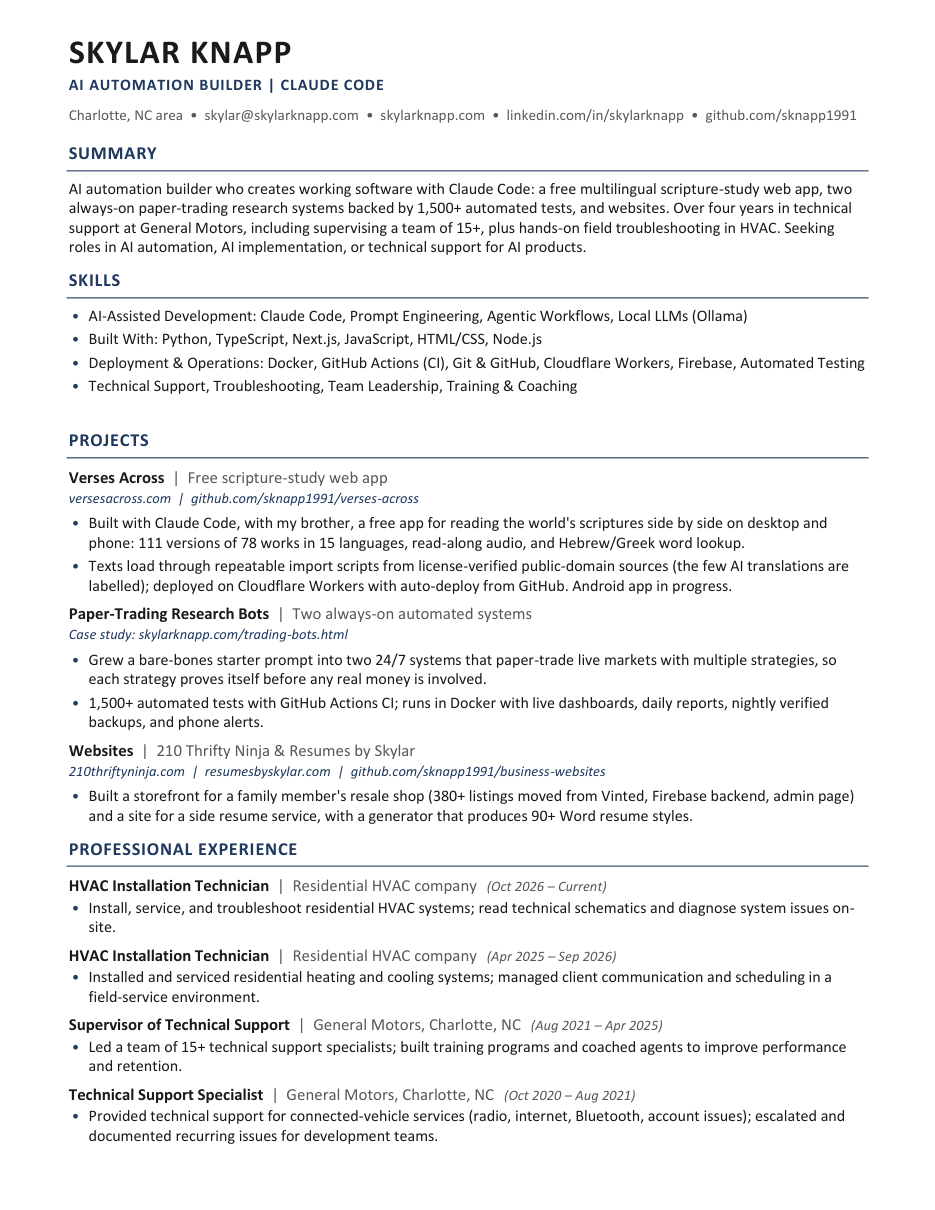
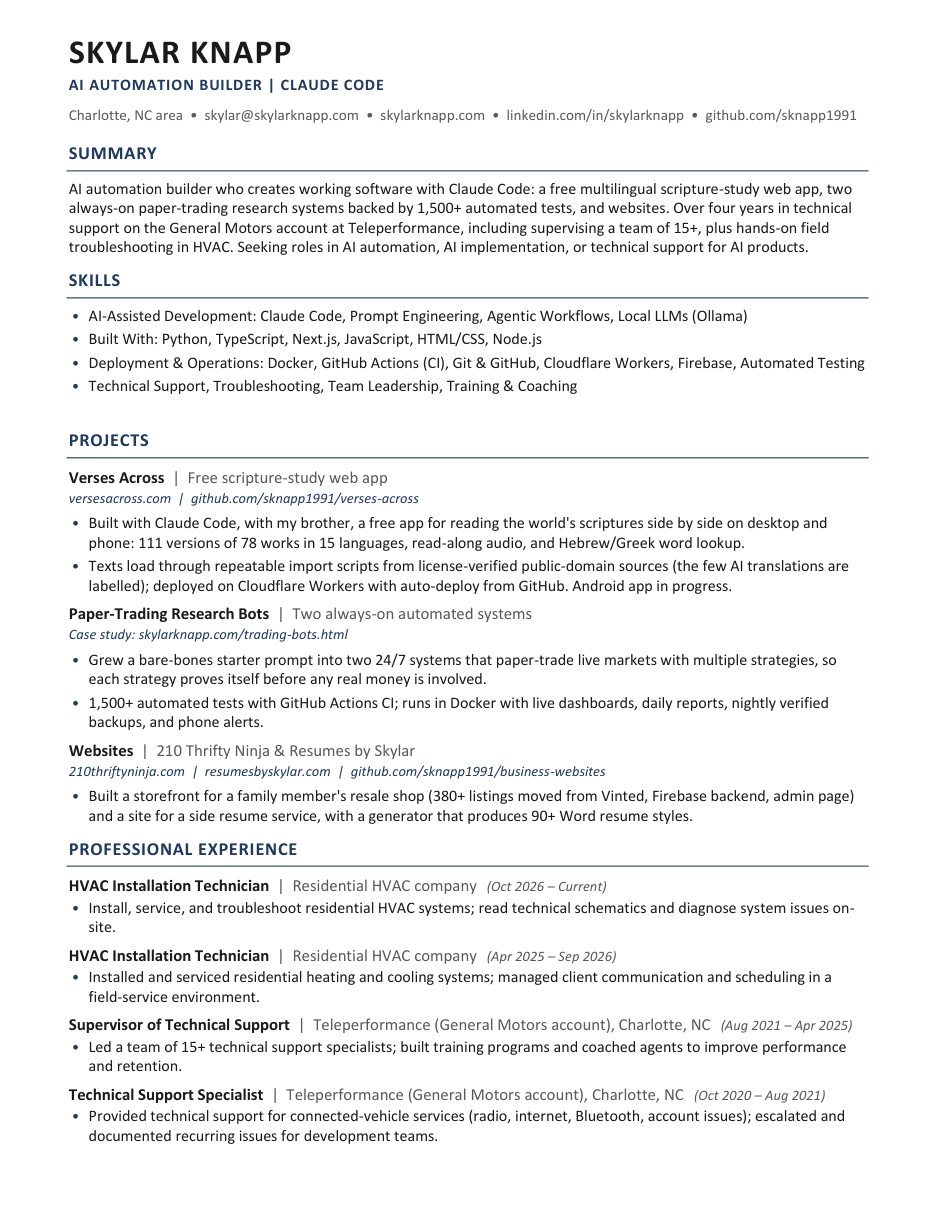
Teleperformance (General Motors account) wording

diff --git a/index.html b/index.html
@@ -133,7 +133,7 @@
       <img src="assets/skylar.jpg" alt="Skylar Knapp" class="about-photo" width="180" height="180">
       <p>
         I'm Skylar Knapp. I currently work in HVAC installation. Before that I spent time in technical support
-        leadership at General Motors, where I learned to troubleshoot under pressure and explain technical
+        leadership on the General Motors account at Teleperformance, where I learned to troubleshoot under pressure and explain technical
         problems to people who just need them fixed.
       </p>
       <p>
